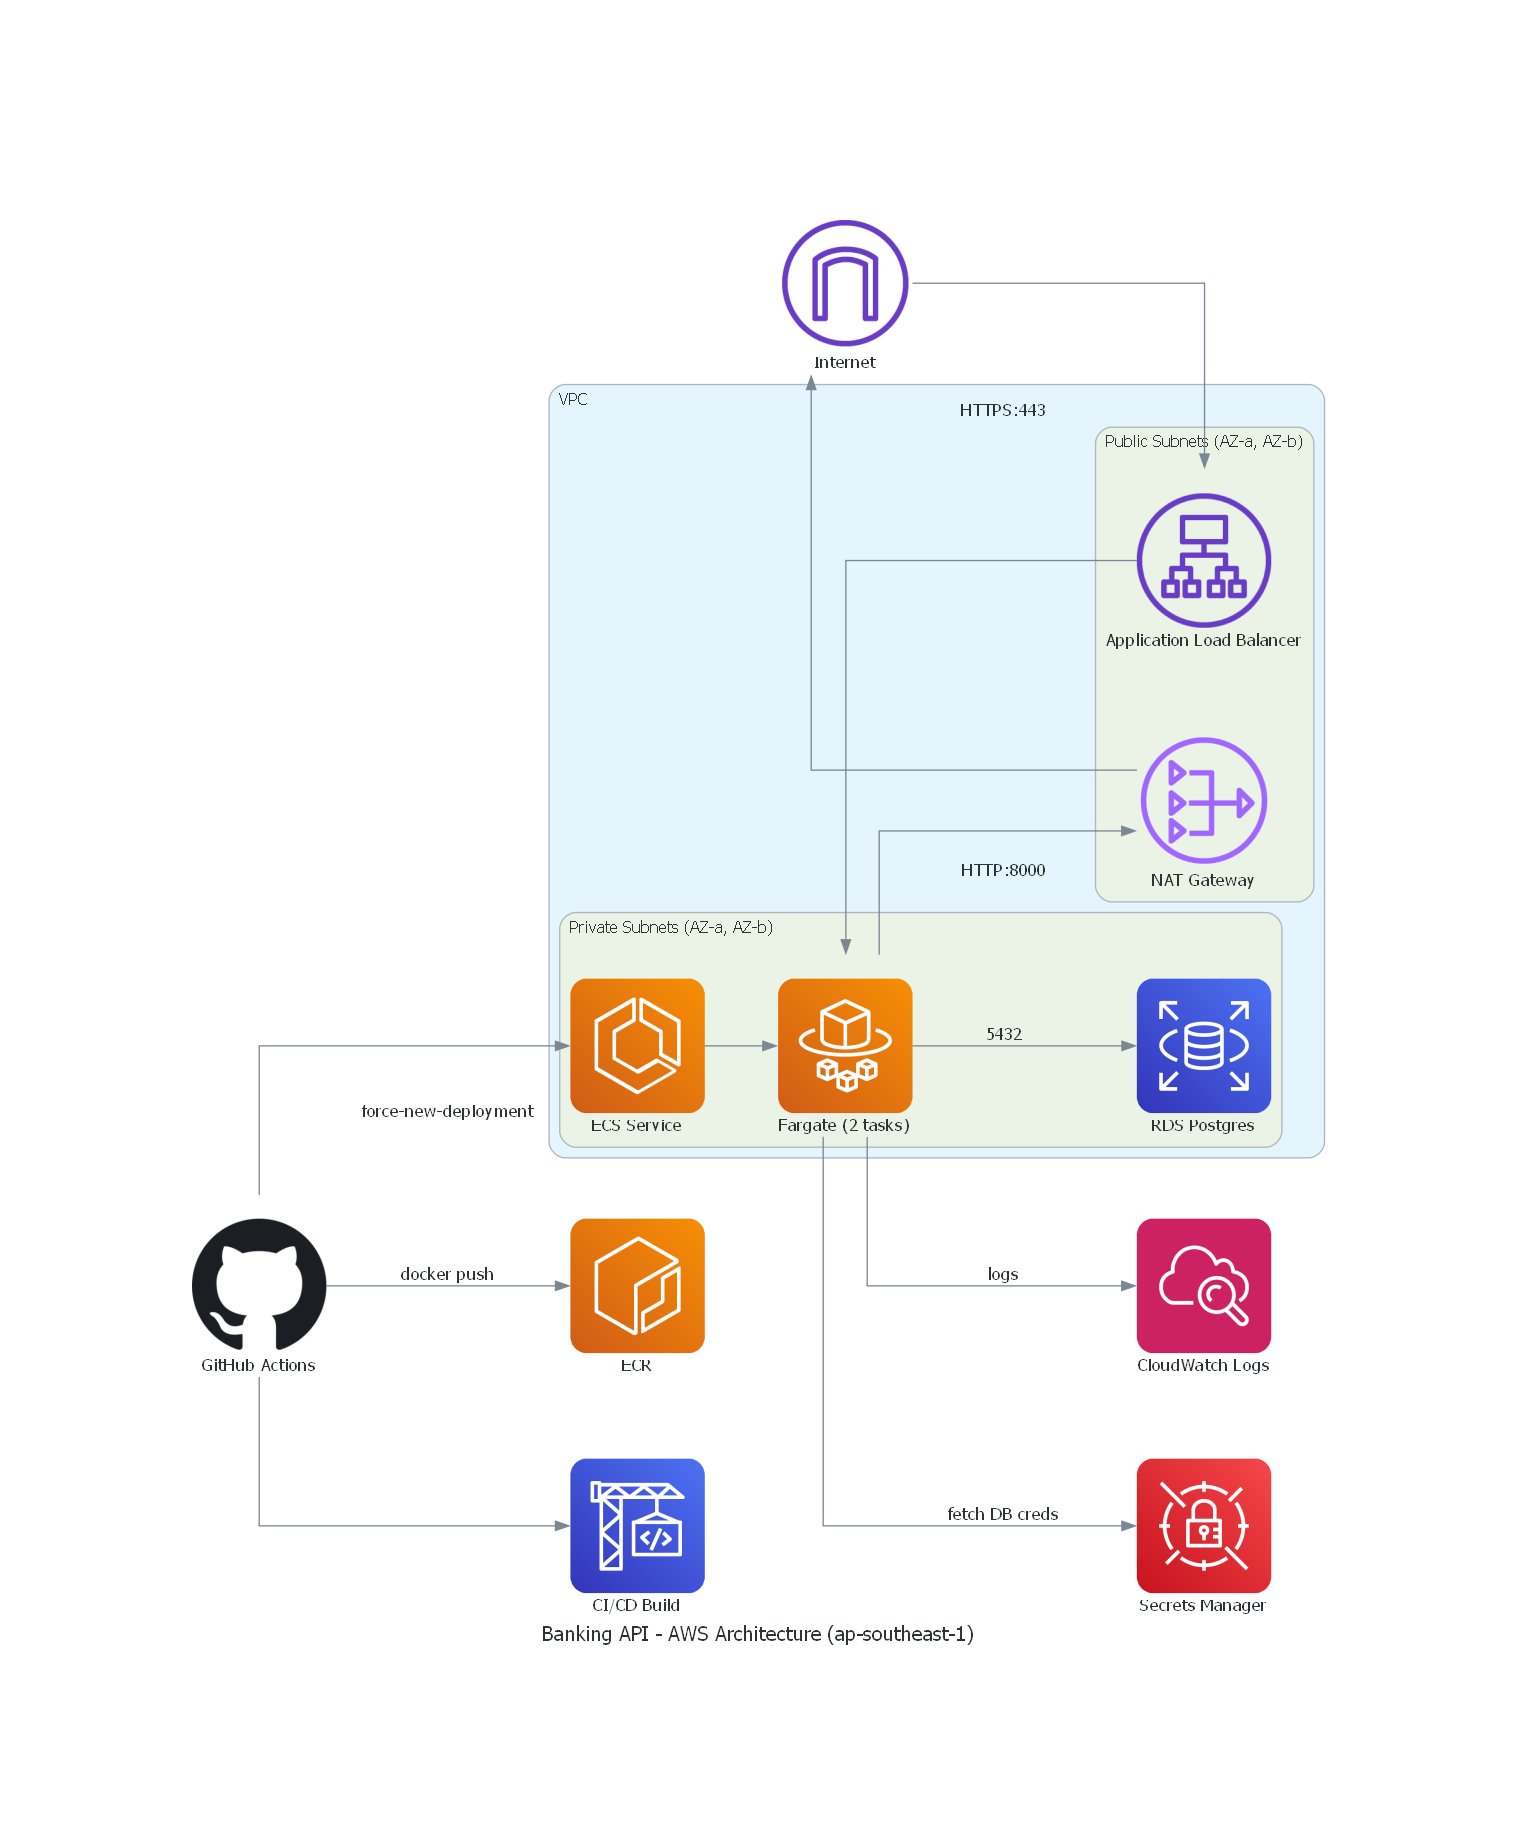
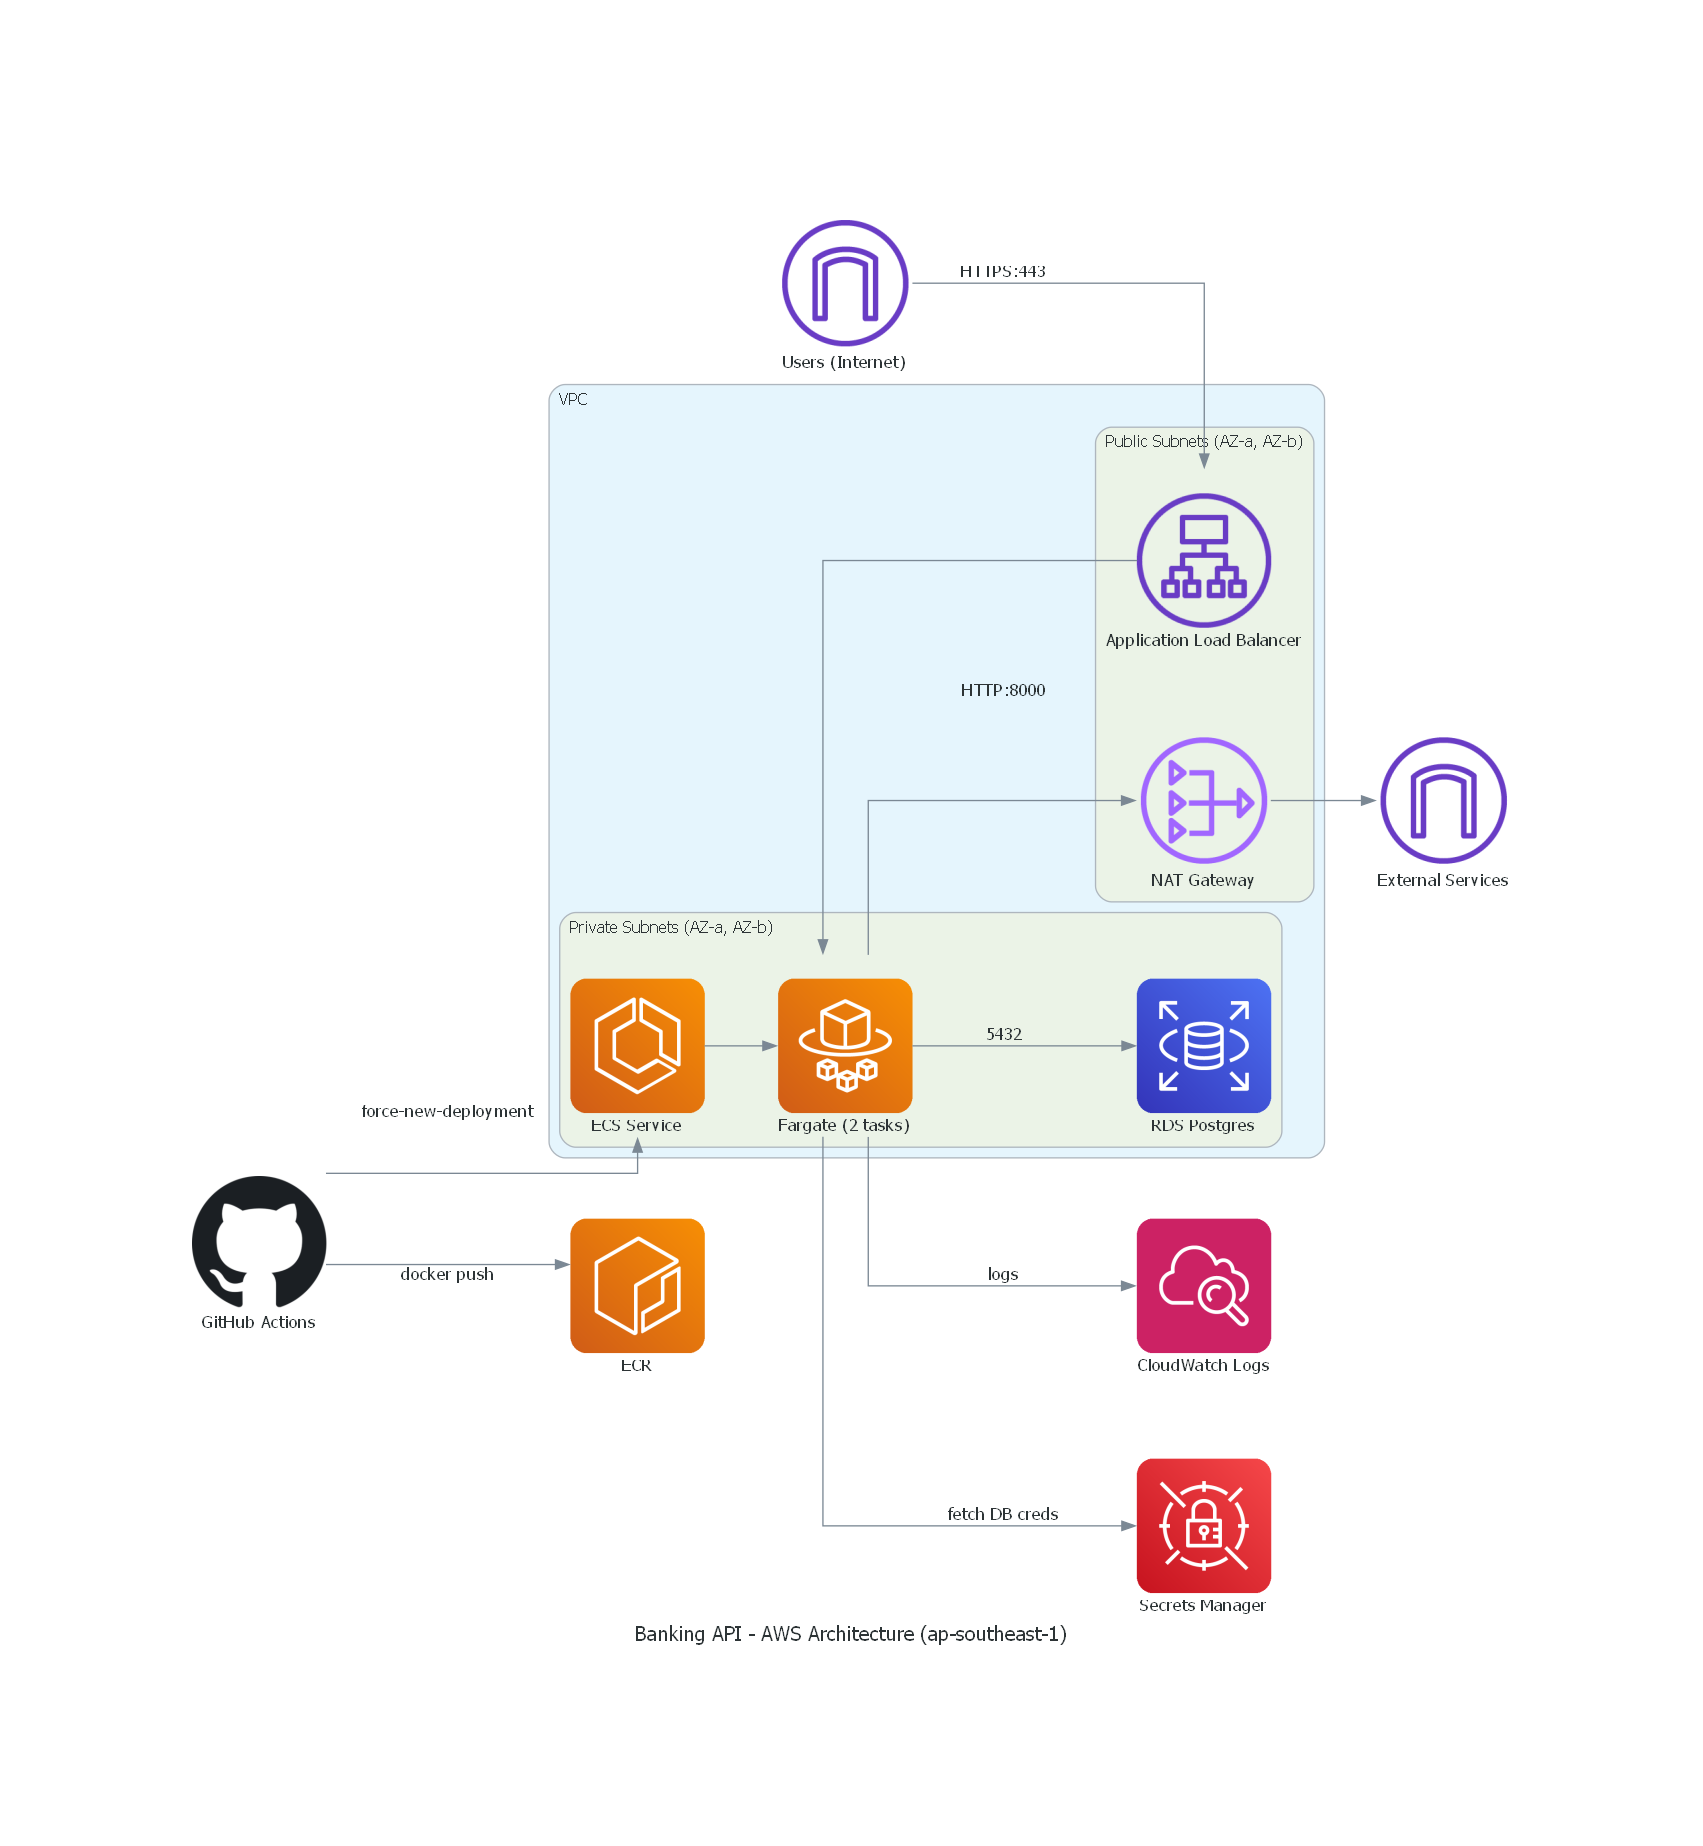
docs: split internet node into users and external services

diff --git a/docs/architecture.py b/docs/architecture.py
@@ -2,7 +2,6 @@
 from diagrams import Cluster, Diagram, Edge
 from diagrams.aws.compute import ECS, ECR, Fargate
 from diagrams.aws.database import RDS
-from diagrams.aws.devtools import Codebuild
 from diagrams.aws.management import Cloudwatch
 from diagrams.aws.network import ALB, InternetGateway, NATGateway
 from diagrams.aws.security import SecretsManager
@@ -14,12 +13,12 @@ with Diagram(
     outformat="png",
     show=False,
 ):
-    internet = InternetGateway("Internet")
+    users = InternetGateway("Users (Internet)")
+    external = InternetGateway("External Services")
     github = Github("GitHub Actions")
     ecr = ECR("ECR")
     cloudwatch = Cloudwatch("CloudWatch Logs")
     secrets = SecretsManager("Secrets Manager")
-    ecr_placeholder = Codebuild("CI/CD Build")
 
     with Cluster("VPC"):
         with Cluster("Public Subnets (AZ-a, AZ-b)"):
@@ -33,13 +32,12 @@ with Diagram(
 
             ecs_service >> tasks
 
-    internet >> Edge(label="HTTPS:443") >> alb
+    users >> Edge(label="HTTPS:443") >> alb
     alb >> Edge(label="HTTP:8000") >> tasks
     tasks >> Edge(label="5432") >> rds
     tasks >> Edge(label="fetch DB creds") >> secrets
     tasks >> Edge(label="logs") >> cloudwatch
-    tasks >> nat >> internet
+    tasks >> nat >> external
 
     github >> Edge(label="docker push") >> ecr
     github >> Edge(label="force-new-deployment") >> ecs_service
-    github >> ecr_placeholder
